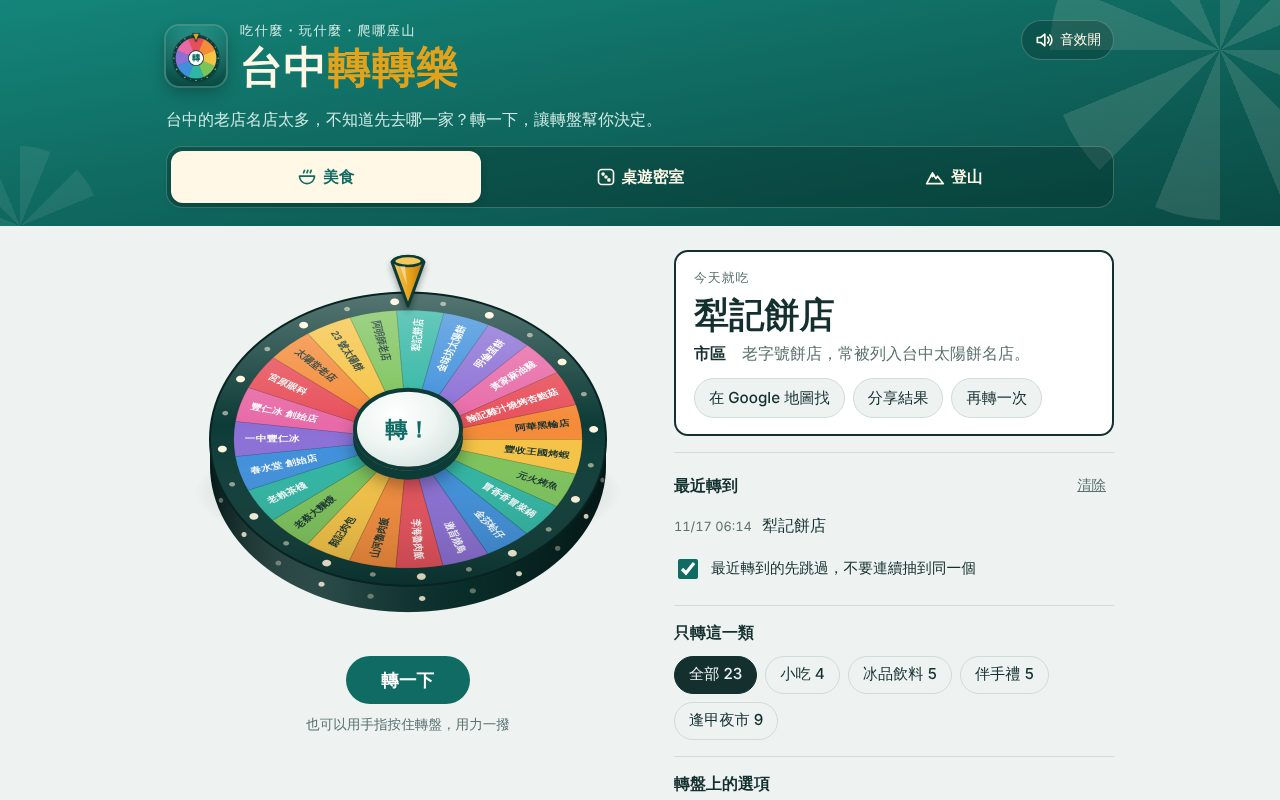
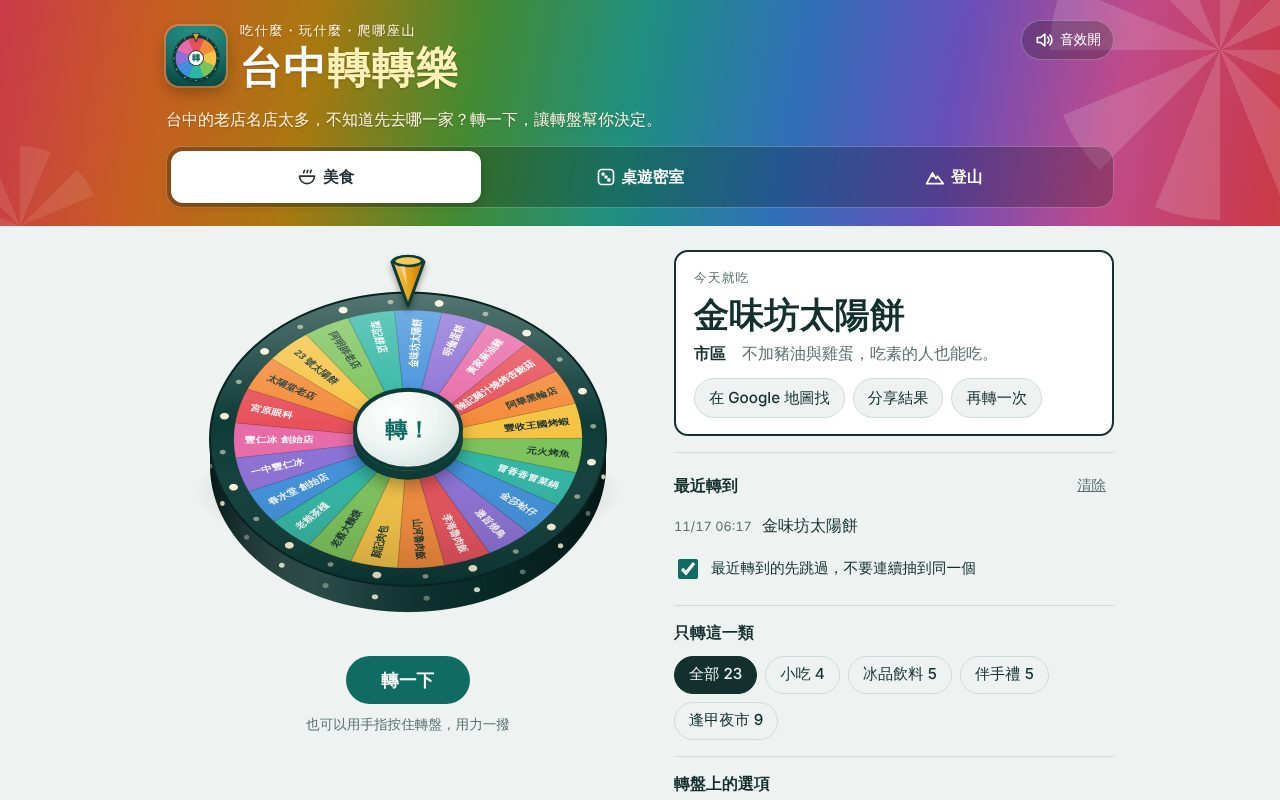
台中轉轉樂：頂部橫幅改成五彩
Claude-Session: https://claude.ai/code/session_01RjTRgTtaL6n1Y88vUja3y2

diff --git a/wheel/index.html b/wheel/index.html
@@ -5,8 +5,8 @@
 <meta name="viewport" content="width=device-width, initial-scale=1, viewport-fit=cover">
 <title>台中轉轉樂</title>
 <meta name="description" content="美食、桌遊密室、登山三個轉盤，轉一下決定在台中吃什麼、玩什麼、爬哪座山。">
-<meta name="theme-color" content="#14857a" media="(prefers-color-scheme: light)">
-<meta name="theme-color" content="#143a36" media="(prefers-color-scheme: dark)">
+<meta name="theme-color" content="#1f8f80" media="(prefers-color-scheme: light)">
+<meta name="theme-color" content="#16655b" media="(prefers-color-scheme: dark)">
 <link rel="manifest" href="manifest.webmanifest">
 <link rel="icon" type="image/png" sizes="32x32" href="icons/favicon-32.png">
 <link rel="icon" type="image/png" sizes="192x192" href="icons/icon-192.png">
@@ -28,14 +28,15 @@
     --accent: #0f6b63;
     --accent-fg: #ffffff;
     --sun: #e3a21a;
-    --hero-top: #14857a;
-    --hero-bottom: #0a4a44;
-    --hero-fg: #fff8e7;
-    --hero-muted: #cfe8e3;
-    --hero-line: rgba(255, 248, 231, .22);
-    --hero-tab-bg: rgba(4, 33, 30, .28);
-    --hero-tab-on: #fff8e7;
-    --hero-tab-on-fg: #0f6b63;
+    /* 頂部橫幅：五彩漸層（顏色比轉盤深一階，白字才看得清楚） */
+    --hero-grad: linear-gradient(100deg, #c93a4a 0.0%, #c85d22 6.25%, #a87810 12.5%, #448a32 18.75%, #1f8f80 25.0%, #2f6fb8 31.25%, #6a4fb8 37.5%, #c04a8a 43.75%, #c93a4a 50.0%, #c85d22 56.25%, #a87810 62.5%, #448a32 68.75%, #1f8f80 75.0%, #2f6fb8 81.25%, #6a4fb8 87.5%, #c04a8a 93.75%, #c93a4a 100.0%);
+    --hero-fg: #ffffff;
+    --hero-muted: #fff3e0;
+    --hero-title-accent: #fff1b8;
+    --hero-line: rgba(255, 255, 255, .26);
+    --hero-tab-bg: rgba(0, 0, 0, .22);
+    --hero-tab-on: #ffffff;
+    --hero-tab-on-fg: #23313a;
     /* 轉盤八色（五彩） */
     --seg-1: #e8505b;
     --seg-2: #f58b3a;
@@ -57,7 +58,7 @@
     :root:not([data-theme="light"]) {
       --bg: #0e1918; --surface: #152422; --fg: #e4efed; --muted: #94aaa6; --line: #2a3f3c;
       --accent: #4cc1b3; --accent-fg: #0b1716; --sun: #f0b93f;
-      --hero-top: #143a36; --hero-bottom: #0b1f1d; --hero-fg: #e4efed; --hero-muted: #9fc2bc; --hero-line: rgba(228, 239, 237, .16); --hero-tab-bg: rgba(0, 0, 0, .3); --hero-tab-on: #4cc1b3; --hero-tab-on-fg: #0b1716;
+      --hero-grad: linear-gradient(100deg, #8f2a36 0.0%, #9a4a1e 6.25%, #86610d 12.5%, #376c29 18.75%, #16655b 25.0%, #214f83 31.25%, #4b3883 37.5%, #883562 43.75%, #8f2a36 50.0%, #9a4a1e 56.25%, #86610d 62.5%, #376c29 68.75%, #16655b 75.0%, #214f83 81.25%, #4b3883 87.5%, #883562 93.75%, #8f2a36 100.0%); --hero-fg: #f4f1ea; --hero-muted: #e6ddd0; --hero-title-accent: #ffe39a; --hero-line: rgba(255, 255, 255, .16); --hero-tab-bg: rgba(0, 0, 0, .32); --hero-tab-on: #f4f1ea; --hero-tab-on-fg: #1b2328;
       --seg-1: #d9434f; --seg-2: #e47b2c; --seg-3: #e5b336; --seg-4: #69b049; --seg-5: #24a191; --seg-6: #357fcb; --seg-7: #7a5ec4; --seg-8: #d65b97;
       --seg-ink-dark: #0e1918; --seg-ink-light: #ffffff;
       --wheel-rim: #1f5b55; --wheel-bulb: #fff1c9; --wheel-shadow: rgba(0, 0, 0, .55);
@@ -67,7 +68,7 @@
   :root[data-theme="dark"] {
     --bg: #0e1918; --surface: #152422; --fg: #e4efed; --muted: #94aaa6; --line: #2a3f3c;
     --accent: #4cc1b3; --accent-fg: #0b1716; --sun: #f0b93f;
-    --hero-top: #143a36; --hero-bottom: #0b1f1d; --hero-fg: #e4efed; --hero-muted: #9fc2bc; --hero-line: rgba(228, 239, 237, .16); --hero-tab-bg: rgba(0, 0, 0, .3); --hero-tab-on: #4cc1b3; --hero-tab-on-fg: #0b1716;
+    --hero-grad: linear-gradient(100deg, #8f2a36 0.0%, #9a4a1e 6.25%, #86610d 12.5%, #376c29 18.75%, #16655b 25.0%, #214f83 31.25%, #4b3883 37.5%, #883562 43.75%, #8f2a36 50.0%, #9a4a1e 56.25%, #86610d 62.5%, #376c29 68.75%, #16655b 75.0%, #214f83 81.25%, #4b3883 87.5%, #883562 93.75%, #8f2a36 100.0%); --hero-fg: #f4f1ea; --hero-muted: #e6ddd0; --hero-title-accent: #ffe39a; --hero-line: rgba(255, 255, 255, .16); --hero-tab-bg: rgba(0, 0, 0, .32); --hero-tab-on: #f4f1ea; --hero-tab-on-fg: #1b2328;
     --seg-1: #d9434f; --seg-2: #e47b2c; --seg-3: #e5b336; --seg-4: #69b049; --seg-5: #24a191; --seg-6: #357fcb; --seg-7: #7a5ec4; --seg-8: #d65b97;
     --seg-ink-dark: #0e1918; --seg-ink-light: #ffffff;
     --wheel-rim: #1f5b55; --wheel-bulb: #fff1c9; --wheel-shadow: rgba(0, 0, 0, .55);
@@ -94,8 +95,11 @@
   /* 頂部橫幅：滿版漸層，延伸到手機狀態列底下 */
   .hero {
     position: relative; overflow: hidden;
-    background: linear-gradient(170deg, var(--hero-top), var(--hero-bottom));
+    background: var(--hero-grad);
+    background-size: 200% 100%;
+    background-position: 0% 50%;
     color: var(--hero-fg);
+    text-shadow: 0 1px 2px rgba(0, 0, 0, .25);
     padding-top: calc(20px + env(safe-area-inset-top, 0px));
     padding-bottom: 18px;
   }
@@ -106,6 +110,9 @@
   .hero::before { width: 340px; height: 340px; right: -110px; top: -120px; opacity: .55; }
   .hero::after { width: 160px; height: 160px; left: -60px; bottom: -80px; opacity: .35; }
   .is-spinning .hero::before { animation: hero-spin 1.2s linear infinite; }
+  /* 轉動時五彩漸層跟著流動 */
+  .is-spinning .hero { animation: hero-flow 2.4s linear infinite; }
+  @keyframes hero-flow { from { background-position: 0% 50%; } to { background-position: 100% 50%; } }
   @keyframes hero-spin { to { transform: rotate(360deg); } }
   .hero-in {
     position: relative; z-index: 1;
@@ -139,7 +146,7 @@
     font-size: clamp(1.9rem, 6.5vw, 2.7rem); line-height: 1.15; margin: 2px 0 0;
     letter-spacing: .02em;
   }
-  .hero h1 span { color: var(--sun); }
+  .hero h1 span { color: var(--hero-title-accent); }
   .intro { margin: 0; color: var(--hero-muted); max-width: 40em; }
   @media (max-width: 600px) { .intro { min-height: 3.2em; } }
 
@@ -155,11 +162,11 @@
   }
   .tab svg { width: 20px; height: 20px; flex: none; }
   .tab:hover { background: rgba(255, 255, 255, .08); }
-  .tab[aria-selected="true"] { background: var(--hero-tab-on); color: var(--hero-tab-on-fg); box-shadow: 0 2px 8px rgba(0, 0, 0, .2); }
+  .tab[aria-selected="true"] { background: var(--hero-tab-on); color: var(--hero-tab-on-fg); box-shadow: 0 2px 8px rgba(0, 0, 0, .2); text-shadow: none; }
   .tab:disabled { cursor: wait; }
   .tab:focus-visible { outline: 3px solid var(--sun); outline-offset: 2px; }
   @media (max-width: 340px) { .tab svg { display: none; } }
-  @media (prefers-reduced-motion: reduce) { .is-spinning .hero::before { animation: none; } .tab { transition: none; } }
+  @media (prefers-reduced-motion: reduce) { .is-spinning .hero::before, .is-spinning .hero { animation: none; } .tab { transition: none; } }
 
   .layout { display: grid; gap: 24px; grid-template-columns: minmax(0, 1fr); align-items: start; }
   @media (min-width: 820px) { .layout { grid-template-columns: minmax(0, 1.1fr) minmax(0, 1fr); } }

diff --git a/wheel/sw.js b/wheel/sw.js
@@ -1,6 +1,6 @@
 // 台中轉轉樂的 service worker：先存好 App 檔案，沒有網路也能開啟。
 // 修改任何檔案後，請把 CACHE 的版本號加一，手機才會更新到新版。
-const CACHE = "taichung-wheels-v9";
+const CACHE = "taichung-wheels-v10";
 const FILES = [
   "./",
   "./index.html",
